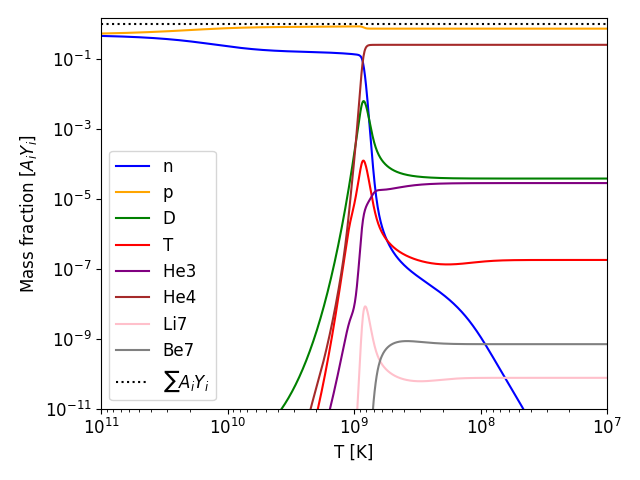
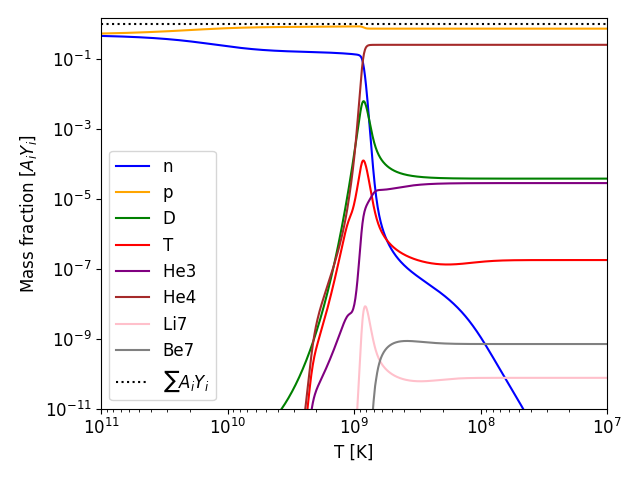
correct i!

Changed region(s): [[0.4688, 0.3438, 0.5625, 0.875]]

diff --git a/project 2/reaction_rates.py b/project 2/reaction_rates.py
@@ -93,7 +93,7 @@ class ReactionRates:
         D + D <-> n + He^3 (b.7)
         """
         rate_DD = 3.9e8 * rho_b * T9**(-2/3) * np.exp(-4.26 * T9**(-1/3)) * (1 + 0.0979 * T9**(1/3) + 0.642 * T9**(2/3) + 0.44 * T9)
-        rate_nHe3 = 1.73 * rate_DD + 0.44 * T9
+        rate_nHe3 = 1.73 * rate_DD * np.exp(-37.94 / T9)
         
         return rate_DD, rate_nHe3
     

diff --git a/project 2/question_i.py b/project 2/question_i.py
@@ -23,6 +23,7 @@ ax.set_ylim([1e-11, 1.5])
 ax.set_xlim([1e11, 1e7])
 ax.set_ylabel("Mass fraction $[A_i Y_i]$")
 ax.set_xlabel("T [K]")
+ax.grid()
 fig.tight_layout()
 fig.savefig("i_mass_frac.png")
 plt.show()

diff --git a/project 2/question_f.py b/project 2/question_f.py
@@ -26,6 +26,7 @@ ax.set_ylim([1e-3, 1.5])
 ax.set_xlim([1e11, 1e8])
 ax.set_ylabel("Mass fraction $[A_i Y_i]$")
 ax.set_xlabel("T [K]")
+ax.grid()
 fig.tight_layout()
 fig.savefig("f_mass_frac.png")
 plt.show()

diff --git a/project 2/question_h.py b/project 2/question_h.py
@@ -25,6 +25,7 @@ ax.set_ylim([1e-3, 1.5])
 ax.set_xlim([1e11, 1e8])
 ax.set_ylabel("Mass fraction $[A_i Y_i]$")
 ax.set_xlabel("T [K]")
+ax.grid()
 fig.tight_layout()
 fig.savefig("h_mass_frac.png")
 plt.show()
